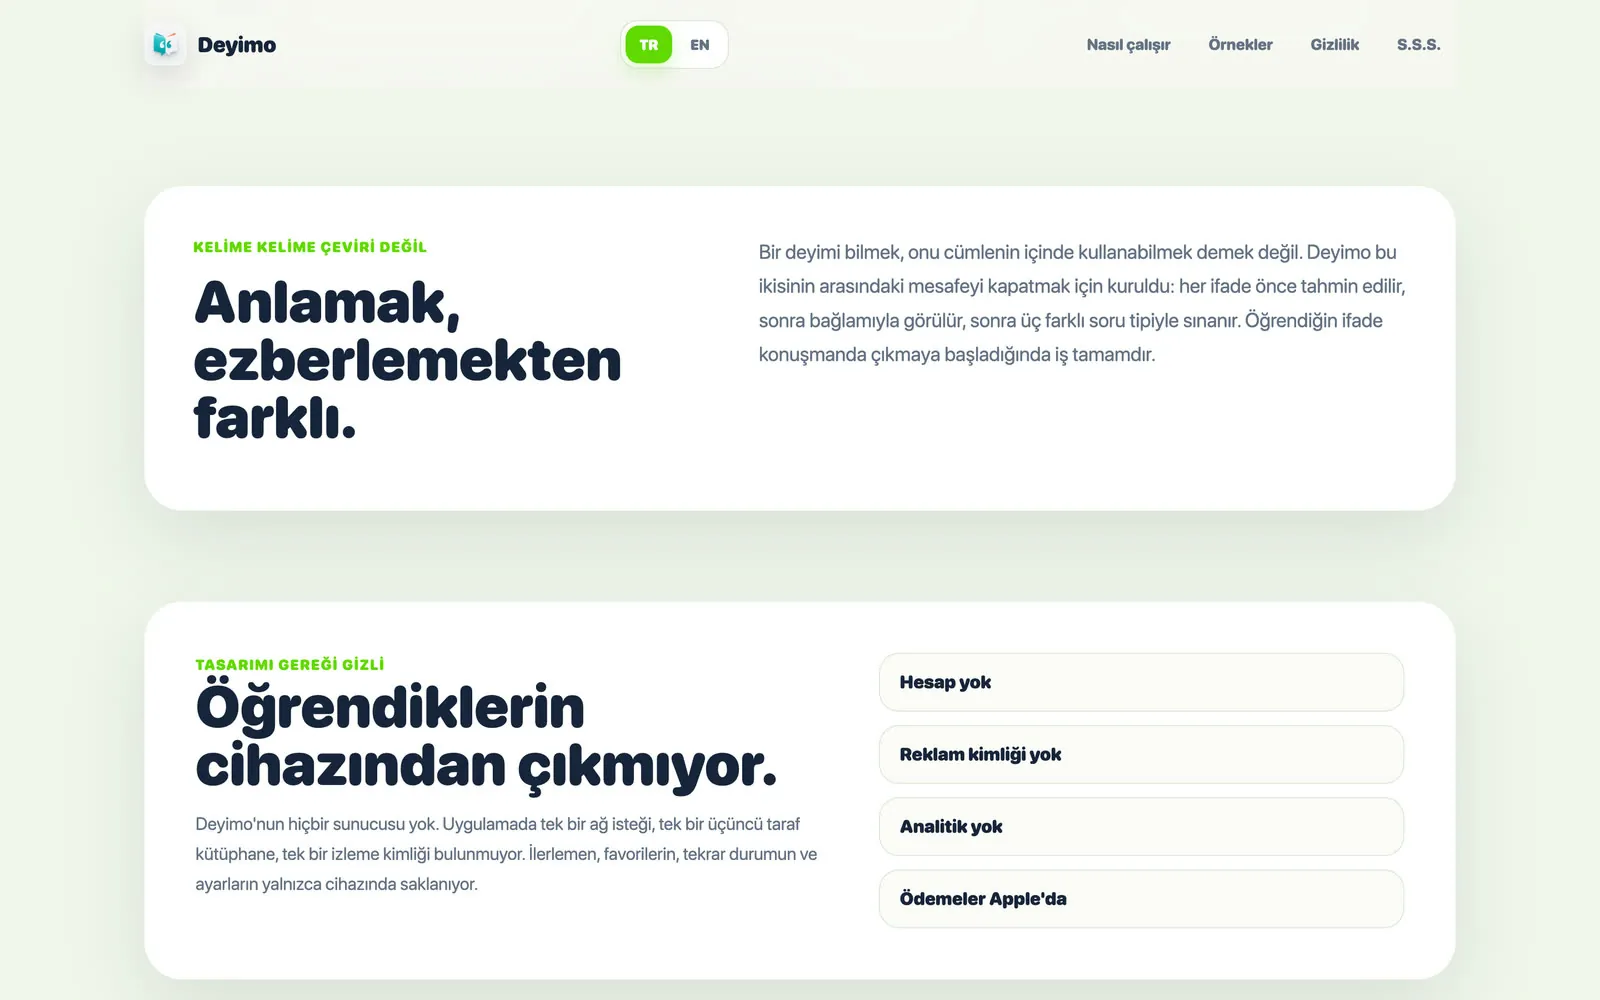
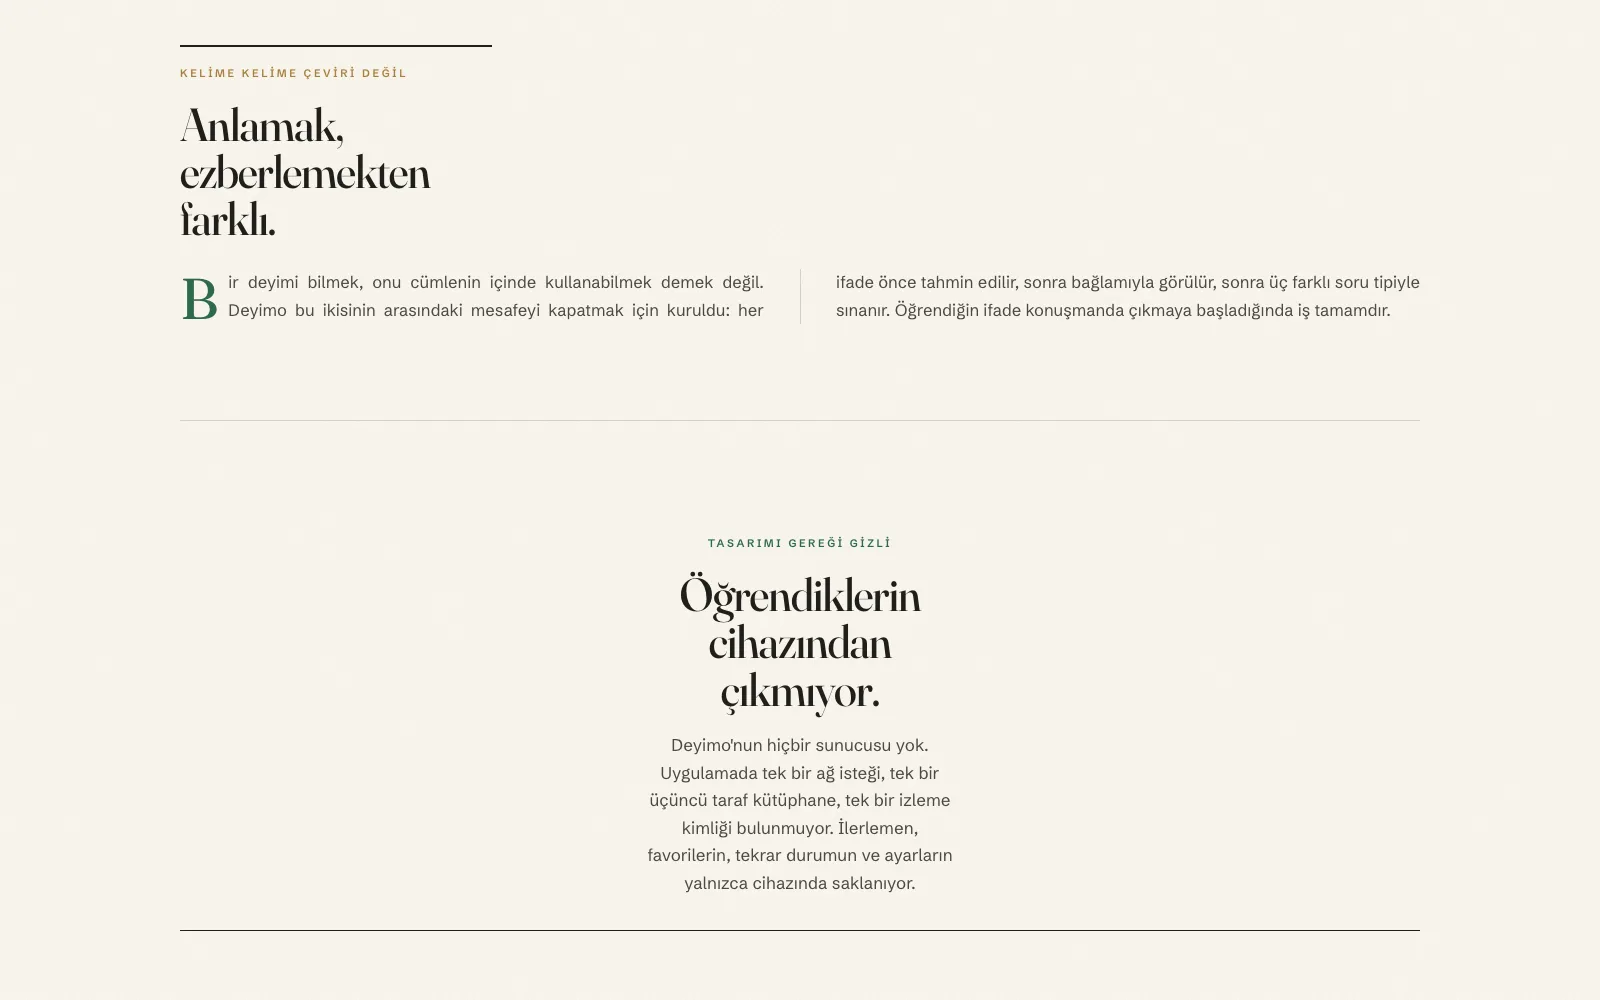
Deyimo ve Life Planner görsellerini yeni sitelerle değiştir
Proje kartı ve detay sayfasındaki yakalamalar eski tasarımı gösteriyordu.
Her ikisi de yeniden çekildi: kart 1440x900, ekran görüntüleri 1600x1000
ve kart için 420x263 küçük sürümleri. Life Planner'da künye satırları ve
widget şeridi ayrı kareler istediği için yakalama sayısı üçe çıktı.

Habitile'ın web bağlantısı habitile.app'e gidiyordu; o adres ayrı bir
kuruluma bakıyor. Bağlantı artık bizim kurduğumuz siteye gidiyor.

diff --git a/src/data/projects.ts b/src/data/projects.ts
@@ -200,7 +200,7 @@ export const projects: Project[] = [
     shots: 6,
     links: [
       { kind: "appstore", url: "https://apps.apple.com/app/id6779264379" },
-      { kind: "web", url: "https://habitile.app" },
+      { kind: "web", url: "https://gurkansvlms.github.io/widgetai-habit-legal-site/" },
     ],
   },
   {
@@ -512,7 +512,7 @@ export const projects: Project[] = [
         { k: "Platform", v: "For an iPhone app" },
       ],
     },
-    shots: 2,
+    shots: 3,
     links: [{ kind: "web", url: "https://gurkansvlms.github.io/widgetai-legal-site/" }],
   },
   {
